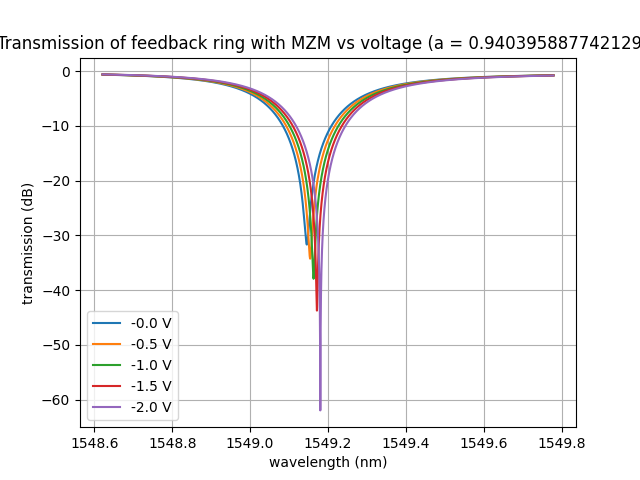
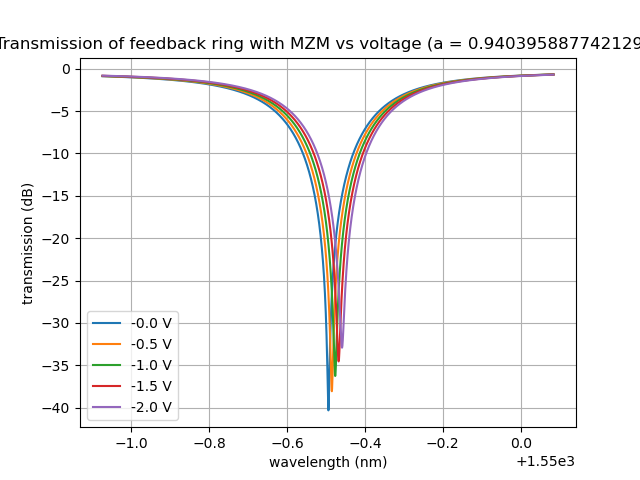
20250723

diff --git a/ring_with_mzm.py b/ring_with_mzm.py
@@ -30,7 +30,7 @@ def neff_dispersion(n0,wl, ng, lambda0):
 
 
 ng = 3.98
-lambda0 = 1.5492
+lambda0 = 1.549505
 cavity__length = 2*np.pi*5/2 +15 + 2*np.pi*5/2 + 15
 
 t1 = 0.94
@@ -39,22 +39,23 @@ t2 = t1/0.95
 t1 = 0.94
 t2 = t1
 r1 = 5
-r2 = 2.5
 
 L1 = 15
 L2 = 2*np.pi*r1/2 + 15 + 2*np.pi*r1/2
 La = 15 + 2*np.pi*r1/2
-L3 = 2*np.pi*r1/2 + 25*2 -5  + 2*np.pi*r2/2
+L3 = 2*np.pi*5 *2 + 15
 straight_bus_loss = 0.999648  #per um
 junction_loss = 0.95223**(La/(2*np.pi*5))
 bend_loss_r1 = 0.995083   # 90 degree bend loss of 5 um radius
 q1 = 0.99975**L1
 q2 = junction_loss*bend_loss_r1**2
-q3 = bend_loss_r1**2 * (straight_bus_loss**(50)) * bend_loss_r1**2
+q3 = bend_loss_r1**8 * (straight_bus_loss**15) 
 a = q1*q2
 k1 = (1-t1**2)**0.5
 k2 = (1-t2**2)**0.5
 
+# //////////////////////////////////////////////////////////////////////////////////////////////////////////////////////////////////////////
+# //////////////////////////////////////////////////////////////////////////////////////////////////////////////////////////////////////////
 
 w0 =  2*np.pi*c/lambda0
 # n0 = 110/radius*lambda0/(2*np.pi)
@@ -110,12 +111,13 @@ print("q1 = ",q1)
 print("q2 = ",q2)
 print("q3 = ",q3)
 print("round trip amplitude loss = ",q2*q1)
+print("junction loss = ",junction_loss)
 print("t1 = ",t1)
 print("t2 = ",t2)
 
 print("linewidth = ",(2*np.pi*c*1e3/(w0)**2)*w0/Q," nm")
 print("f_opt (optical bandwidth) = ",c/1.55/Q/1e9," GHz")
-heater_phase = 110*np.pi/180
+heater_phase = 150*np.pi/180
 dn = 9.670417578102628e-05
 V = np.array([0,0.5,1,1.5,2])
 phi2 = np.array([n*2*np.pi/wl*La,     (n+dn/2)*2*np.pi/wl*La,\
@@ -136,5 +138,5 @@ plt.grid()
 plt.savefig("Transmission of feedback ring with MZM vs voltage (a = "+str(a)+").png")
 plt.show()
 
-print("Q after heater tuning = ",lambda0*1e3/0.35)
+print("Q after heater tuning = ",lambda0*1e3/0.4)
 print("f_opt (optical bandwidth) = ",c/lambda0/(lambda0*1e3/0.35)/1e9," GHz")
